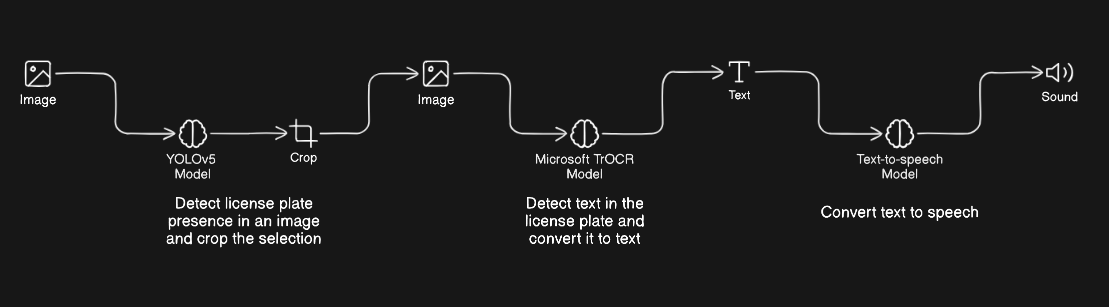
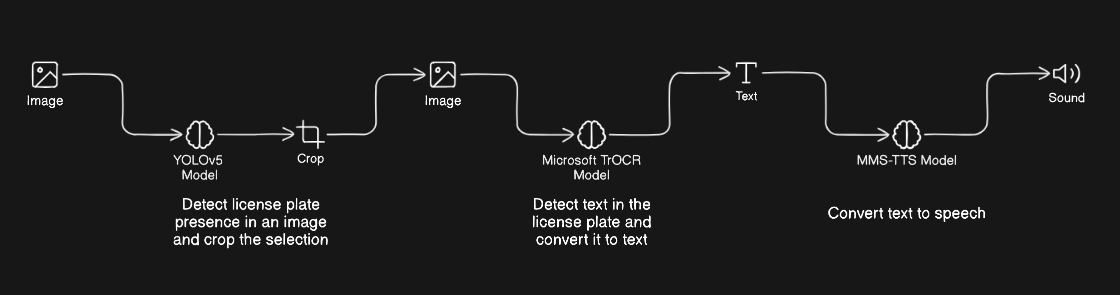
added streamlit app

diff --git a/main.py b/main.py
@@ -1,0 +1,65 @@
+import streamlit as st
+from PIL import Image
+import numpy as np
+from transformers import TrOCRProcessor, VisionEncoderDecoderModel, VitsModel, AutoTokenizer
+from IPython.display import Audio
+import torch
+import yolov5
+
+# Load YOLOv5 model
+@st.cache(allow_output_mutation=True)
+def load_model():
+    return yolov5.load('keremberke/yolov5m-license-plate')
+
+# Load TR-OCR model
+@st.cache(allow_output_mutation=True)
+def load_ocr_model():
+    processor = TrOCRProcessor.from_pretrained("microsoft/trocr-base-handwritten")
+    model = VisionEncoderDecoderModel.from_pretrained("microsoft/trocr-base-handwritten")
+    return processor, model
+
+# Load TTS model
+@st.cache(allow_output_mutation=True)
+def load_tts_model():
+    model = VitsModel.from_pretrained("facebook/mms-tts-eng")
+    tokenizer = AutoTokenizer.from_pretrained("facebook/mms-tts-eng")
+    return model, tokenizer
+
+# Main function for Streamlit app
+def main():
+    st.title("License Plate Recognition App")
+
+    uploaded_file = st.file_uploader("Upload an image", type=["jpg", "jpeg", "png"])
+
+    if uploaded_file is not None:
+        img = Image.open(uploaded_file)
+        st.image(img, caption='Uploaded Image', use_column_width=True)
+
+        model = load_model()
+        processor, ocr_model = load_ocr_model()
+        tts_model, tokenizer = load_tts_model()
+
+        if st.button("Run Inference"):
+            results = model(img, size=640)
+            predictions = results.pred[0]
+            boxes = predictions[:, :4] # x1, y1, x2, y2
+            scores = predictions[:, 4]
+            categories = predictions[:, 5]
+
+            # results.show()
+
+            cropped_image = img.crop(tuple(results.xyxy[0][0, :4].squeeze().tolist()[:4]))
+
+            pixel_values = processor(cropped_image, return_tensors="pt").pixel_values
+            generated_ids = ocr_model.generate(pixel_values)
+            generated_text = processor.batch_decode(generated_ids, skip_special_tokens=True)[0]
+
+            st.write("Detected License Plate Text:", generated_text)
+
+            inputs = tokenizer(generated_text, return_tensors="pt")
+            with torch.no_grad():
+                output = tts_model(**inputs).waveform
+            st.audio(output.numpy(), format="audio/wav", sample_rate=tts_model.config.sampling_rate)
+
+if __name__ == "__main__":
+    main()
